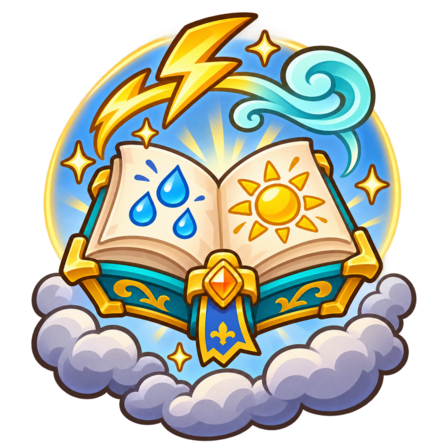
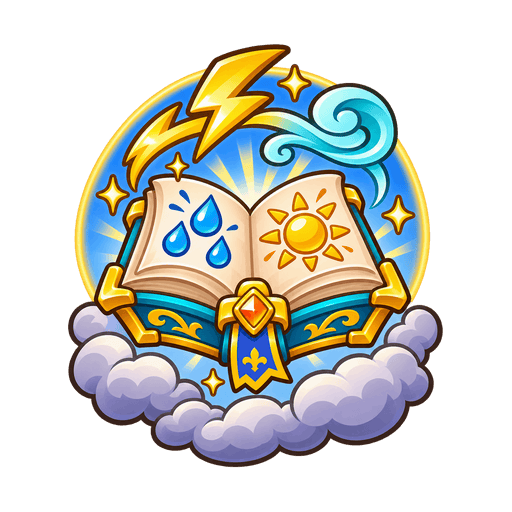
天候の呪文のカード絵を512pxで描き直す

diff --git a/js/ui/precache.js b/js/ui/precache.js
@@ -1,2 +1,2 @@
-self.CF_CACHE_VERSION="4c02900524c205b7";
+self.CF_CACHE_VERSION="64f714ec397dd5cb";
 self.CF_ASSETS=["index.html","manifest.webmanifest","css/accessibility.css","css/battle.css","css/beast.css","css/card-base.css","css/card-zoom.css","css/chat.css","css/components.css","css/deck.css","css/experience.css","css/finishing-art.css","css/fit.css","css/help-guide.css","css/hologram.css","css/kingdom.css","css/layout.css","css/mana-growth.css","css/materials.css","css/motion.css","css/mp.css","css/polish.css","css/rarity-assets.css","css/rarity-fx.css","css/settings.css","css/step5.css","css/style.css","css/text-fit.css","css/theme.css","css/tokens.css","css/tutorial.css","css/weather.css","js/game/Card.js","js/game/Castle.js","js/game/Game.js","js/game/Monster.js","js/game/Player.js","js/game/Road.js","js/game/Setup.js","js/game/Soldier.js","js/game/Weather.js","js/game/strategies.js","js/game/visibility.js","js/main.js","js/ui/Accessibility.js","js/ui/Animations.js","js/ui/BattleLayout.js","js/ui/CardGuide.js","js/ui/CardInfo.js","js/ui/CardRelief.js","js/ui/CardZoom.js","js/ui/ChatView.js","js/ui/DebugPanel.js","js/ui/DeckEditor.js","js/ui/DeckPreview.js","js/ui/DeckStore.js","js/ui/HandView.js","js/ui/HelpView.js","js/ui/Hologram.js","js/ui/LocalSetup.js","js/ui/MatchStats.js","js/ui/MaterialSkin.js","js/ui/Music.js","js/ui/OnlineClient.js","js/ui/ProgressPanel.js","js/ui/Renderer.js","js/ui/RoomView.js","js/ui/Session.js","js/ui/Settings.js","js/ui/Sound.js","js/ui/Targeting.js","js/ui/Tutorial.js","js/ui/UpgradePanel.js","js/ui/WeatherView.js","js/ui/art.js","js/ui/cardFrame.js","js/ui/cardView.js","js/ui/config.js","js/ui/handOrder.js","js/ui/look.js","js/ui/motion.js","js/ui/pills.js","js/ui/rarity.js","js/ui/stories.js","js/ui/syncCheck.js","js/ui/text.js","data/cards.json","data/castles.json","data/decks.json","data/monsters.json","data/rarities.json","data/rules.json","data/stamps.json","data/upgrades.json","data/weather.json","assets/asset-manifest.json","assets/bg/board-meadow-compact.png","assets/bg/board-meadow.png","assets/bg/board.png","assets/bg/kingdom-meadow.png","assets/bg/kingdom-valley.png","assets/bg/title-compact.png","assets/bg/title.png","assets/cards/card-absolute-zero.png","assets/cards/card-adapt.png","assets/cards/card-apocalypse.png","assets/cards/card-apprentice-archer.png","assets/cards/card-apprentice-mage.png","assets/cards/card-archer.png","assets/cards/card-archmage.png","assets/cards/card-barrier.png","assets/cards/card-beast-bat.png","assets/cards/card-beast-demon-king.png","assets/cards/card-beast-demon.png","assets/cards/card-beast-dragon.png","assets/cards/card-beast-ghost.png","assets/cards/card-beast-goblin.png","assets/cards/card-beast-golem.png","assets/cards/card-beast-mimic.png","assets/cards/card-beast-skeleton.png","assets/cards/card-beast-slime.png","assets/cards/card-beast-treant.png","assets/cards/card-beast-vampire.png","assets/cards/card-big-shield.png","assets/cards/card-big-thunder.png","assets/cards/card-blessing.png","assets/cards/card-bolt.png","assets/cards/card-cavalry.png","assets/cards/card-coin-pouch.png","assets/cards/card-death-mist.png","assets/cards/card-decoy.png","assets/cards/card-deep-freeze.png","assets/cards/card-dragon-knight.png","assets/cards/card-earth-hammer.png","assets/cards/card-earth-king.png","assets/cards/card-earth-spirit.png","assets/cards/card-fire-king.png","assets/cards/card-fire-spirit.png","assets/cards/card-fireball.png","assets/cards/card-flame-sword.png","assets/cards/card-frost-breath.png","assets/cards/card-frozen-world.png","assets/cards/card-gate.png","assets/cards/card-giant.png","assets/cards/card-glacier.png","assets/cards/card-god-shield.png","assets/cards/card-god-sword.png","assets/cards/card-goddess.png","assets/cards/card-gold-coin.png","assets/cards/card-gold-vein.png","assets/cards/card-great-earth-spirit.png","assets/cards/card-great-fire-spirit.png","assets/cards/card-great-heal.png","assets/cards/card-great-water-spirit.png","assets/cards/card-great-wind-spirit.png","assets/cards/card-heal.png","assets/cards/card-heavy.png","assets/cards/card-hero.png","assets/cards/card-holy-light.png","assets/cards/card-holy-shield.png","assets/cards/card-holy-sword.png","assets/cards/card-infantry.png","assets/cards/card-inferno.png","assets/cards/card-iron-sword.png","assets/cards/card-judgment.png","assets/cards/card-king-treasure.png","assets/cards/card-knight.png","assets/cards/card-longbowman.png","assets/cards/card-mage.png","assets/cards/card-magic-sword.png","assets/cards/card-mana-crystal.png","assets/cards/card-mana-drop.png","assets/cards/card-mana-shard.png","assets/cards/card-mana-spring.png","assets/cards/card-meteor.png","assets/cards/card-minor-heal.png","assets/cards/card-paladin.png","assets/cards/card-plague.png","assets/cards/card-poison-mist.png","assets/cards/card-prayer.png","assets/cards/card-raijin.png","assets/cards/card-reflect.png","assets/cards/card-sage.png","assets/cards/card-sandbag.png","assets/cards/card-scout.png","assets/cards/card-shield.png","assets/cards/card-sky-archer.png","assets/cards/card-sniper.png","assets/cards/card-sorcerer.png","assets/cards/card-spearman.png","assets/cards/card-starfall.png","assets/cards/card-steel-shield.png","assets/cards/card-stone-wall.png","assets/cards/card-thief.png","assets/cards/card-thunder.png","assets/cards/card-toxic-rain.png","assets/cards/card-treasure.png","assets/cards/card-venom.png","assets/cards/card-wall.png","assets/cards/card-water-king.png","assets/cards/card-water-spear.png","assets/cards/card-water-spirit.png","assets/cards/card-weather-call.png","assets/cards/card-wind-bow.png","assets/cards/card-wind-king.png","assets/cards/card-wind-spirit.png","assets/cards/card-world-tree-dew.png","assets/cards/frame-beast.png","assets/cards/frame-common.png","assets/cards/frame-defense.png","assets/cards/frame-epic.png","assets/cards/frame-legendary.png","assets/cards/frame-rare.png","assets/cards/frame-soldier.png","assets/cards/frame-special.png","assets/cards/frame-spell.png","assets/cards/frame-uncommon.png","assets/cards/frame-weapon.png","assets/cards/relief/frame-beast-raised.png","assets/cards/relief/frame-beast-relief.png","assets/cards/relief/frame-common-raised.png","assets/cards/relief/frame-common-relief.png","assets/cards/relief/frame-defense-raised.png","assets/cards/relief/frame-defense-relief.png","assets/cards/relief/frame-epic-raised.png","assets/cards/relief/frame-epic-relief.png","assets/cards/relief/frame-legendary-raised.png","assets/cards/relief/frame-legendary-relief.png","assets/cards/relief/frame-rare-raised.png","assets/cards/relief/frame-rare-relief.png","assets/cards/relief/frame-soldier-raised.png","assets/cards/relief/frame-soldier-relief.png","assets/cards/relief/frame-special-raised.png","assets/cards/relief/frame-special-relief.png","assets/cards/relief/frame-spell-raised.png","assets/cards/relief/frame-spell-relief.png","assets/cards/relief/frame-uncommon-raised.png","assets/cards/relief/frame-uncommon-relief.png","assets/cards/relief/frame-weapon-raised.png","assets/cards/relief/frame-weapon-relief.png","assets/castles/barracks-blue-damaged-1.png","assets/castles/barracks-blue-damaged-2.png","assets/castles/barracks-blue-damaged-3.png","assets/castles/barracks-blue.png","assets/castles/barracks-orange-damaged-1.png","assets/castles/barracks-orange-damaged-2.png","assets/castles/barracks-orange-damaged-3.png","assets/castles/barracks-orange.png","assets/castles/castle-blue-damaged-1.png","assets/castles/castle-blue-damaged-2.png","assets/castles/castle-blue-damaged-3.png","assets/castles/castle-blue-ruined.png","assets/castles/castle-blue.png","assets/castles/castle-orange-damaged-1.png","assets/castles/castle-orange-damaged-2.png","assets/castles/castle-orange-damaged-3.png","assets/castles/castle-orange-ruined.png","assets/castles/castle-orange.png","assets/castles/fortress-blue-damaged-1.png","assets/castles/fortress-blue-damaged-2.png","assets/castles/fortress-blue-damaged-3.png","assets/castles/fortress-blue.png","assets/castles/fortress-orange-damaged-1.png","assets/castles/fortress-orange-damaged-2.png","assets/castles/fortress-orange-damaged-3.png","assets/castles/fortress-orange.png","assets/castles/tower-blue-damaged-1.png","assets/castles/tower-blue-damaged-2.png","assets/castles/tower-blue-damaged-3.png","assets/castles/tower-blue.png","assets/castles/tower-orange-damaged-1.png","assets/castles/tower-orange-damaged-2.png","assets/castles/tower-orange-damaged-3.png","assets/castles/tower-orange.png","assets/fx/dust.png","assets/fx/evolve-1.png","assets/fx/evolve-2.png","assets/fx/evolve-3.png","assets/fx/explosion.png","assets/fx/fireball.png","assets/fx/fusion.png","assets/fx/heal.png","assets/fx/ice.png","assets/fx/lightning.png","assets/fx/lucky-reward.png","assets/fx/poison.png","assets/ui/app-icon-192.png","assets/ui/app-icon-512.png","assets/ui/app-icon-maskable-512.png","assets/ui/apple-touch-icon.png","assets/ui/banner-win.png","assets/ui/btn-blue.png","assets/ui/btn-cream.png","assets/ui/btn-green.png","assets/ui/btn-orange.png","assets/ui/btn-red.png","assets/ui/btn-round.png","assets/ui/button-end-turn.png","assets/ui/card-back.png","assets/ui/icon-coin.png","assets/ui/icon-earth.png","assets/ui/icon-fire.png","assets/ui/icon-heart.png","assets/ui/icon-help.png","assets/ui/icon-kind-defense.png","assets/ui/icon-kind-soldier.png","assets/ui/icon-kind-spell.png","assets/ui/icon-kind-weapon.png","assets/ui/icon-kind-wild.png","assets/ui/icon-luck.png","assets/ui/icon-mode-local.png","assets/ui/icon-mode-online.png","assets/ui/icon-mode-solo.png","assets/ui/icon-mp.png","assets/ui/icon-rarity-common.png","assets/ui/icon-rarity-epic.png","assets/ui/icon-rarity-legendary.png","assets/ui/icon-rarity-rare.png","assets/ui/icon-rarity-special.png","assets/ui/icon-rarity-uncommon.png","assets/ui/icon-water.png","assets/ui/icon-wind.png","assets/ui/kingdom-crest.png","assets/ui/kingdom-parchment.png","assets/ui/kingdom-platform.png","assets/ui/kingdom-primary.png","assets/ui/kingdom-secondary.png","assets/ui/kingdom-wood.png","assets/ui/logo.png","assets/ui/natural/danger-40-left.png","assets/ui/natural/danger-40-middle.png","assets/ui/natural/danger-40-right.png","assets/ui/natural/danger-44-left.png","assets/ui/natural/danger-44-middle.png","assets/ui/natural/danger-44-right.png","assets/ui/natural/danger-72-left.png","assets/ui/natural/danger-72-middle.png","assets/ui/natural/danger-72-right.png","assets/ui/natural/frame.png","assets/ui/natural/leather-tile.png","assets/ui/natural/neutral-40-left.png","assets/ui/natural/neutral-40-middle.png","assets/ui/natural/neutral-40-right.png","assets/ui/natural/neutral-44-left.png","assets/ui/natural/neutral-44-middle.png","assets/ui/natural/neutral-44-right.png","assets/ui/natural/neutral-72-left.png","assets/ui/natural/neutral-72-middle.png","assets/ui/natural/neutral-72-right.png","assets/ui/natural/neutral-wide-full.png","assets/ui/natural/oak-tile.png","assets/ui/natural/paper-tile.png","assets/ui/natural/primary-40-left.png","assets/ui/natural/primary-40-middle.png","assets/ui/natural/primary-40-right.png","assets/ui/natural/primary-44-left.png","assets/ui/natural/primary-44-middle.png","assets/ui/natural/primary-44-right.png","assets/ui/natural/primary-72-left.png","assets/ui/natural/primary-72-middle.png","assets/ui/natural/primary-72-right.png","assets/ui/natural/primary-wide-full.png","assets/ui/natural/round-neutral.png","assets/ui/natural/round-selected.png","assets/ui/natural/selected-40-left.png","assets/ui/natural/selected-40-middle.png","assets/ui/natural/selected-40-right.png","assets/ui/natural/selected-44-left.png","assets/ui/natural/selected-44-middle.png","assets/ui/natural/selected-44-right.png","assets/ui/natural/selected-72-left.png","assets/ui/natural/selected-72-middle.png","assets/ui/natural/selected-72-right.png","assets/ui/panel-parchment.png","assets/ui/result-defeat.png","assets/ui/result-victory.png","assets/ui/sign-hp.png","assets/ui/stamps/again.png","assets/ui/stamps/gg.png","assets/ui/stamps/go.png","assets/ui/stamps/hello.png","assets/ui/stamps/nice.png","assets/ui/stamps/ouch.png","assets/ui/stamps/scared.png","assets/ui/stamps/smug.png","assets/ui/stamps/sorry.png","assets/ui/stamps/thanks.png","assets/ui/stamps/think.png","assets/ui/stamps/yay.png","assets/ui/tap-plate.png","assets/ui/title-castle-blue.png","assets/ui/title-castle-orange.png","assets/ui/title-infantry-orange.png","assets/ui/title-knight-blue.png","assets/ui/weather-coin-rain.png","assets/ui/weather-fog.png","assets/ui/weather-heavy-rain.png","assets/ui/weather-rain.png","assets/ui/weather-sandstorm.png","assets/ui/weather-storm.png","assets/ui/weather-sunny.png","assets/units/apprentice-archer-blue.png","assets/units/apprentice-archer-orange.png","assets/units/apprentice-mage-blue.png","assets/units/apprentice-mage-orange.png","assets/units/archer-blue.png","assets/units/archer-orange.png","assets/units/archmage-blue.png","assets/units/archmage-orange.png","assets/units/cavalry-blue.png","assets/units/cavalry-orange.png","assets/units/dragon-knight-blue.png","assets/units/dragon-knight-orange.png","assets/units/earth-spirit.png","assets/units/fire-spirit.png","assets/units/giant-blue.png","assets/units/giant-orange.png","assets/units/great-earth-spirit.png","assets/units/great-fire-spirit.png","assets/units/great-water-spirit.png","assets/units/great-wind-spirit.png","assets/units/heavy-blue.png","assets/units/heavy-orange.png","assets/units/hero-blue.png","assets/units/hero-orange.png","assets/units/infantry-blue.png","assets/units/infantry-orange.png","assets/units/knight-blue.png","assets/units/knight-orange.png","assets/units/longbowman-blue.png","assets/units/longbowman-orange.png","assets/units/mage-blue.png","assets/units/mage-orange.png","assets/units/monster-bat.png","assets/units/monster-demon-king.png","assets/units/monster-demon.png","assets/units/monster-dragon.png","assets/units/monster-ghost.png","assets/units/monster-goblin.png","assets/units/monster-golem.png","assets/units/monster-mimic.png","assets/units/monster-skeleton.png","assets/units/monster-slime.png","assets/units/monster-treant.png","assets/units/monster-vampire.png","assets/units/paladin-blue.png","assets/units/paladin-orange.png","assets/units/sage-blue.png","assets/units/sage-orange.png","assets/units/scout-blue.png","assets/units/scout-orange.png","assets/units/sky-archer-blue.png","assets/units/sky-archer-orange.png","assets/units/sniper-blue.png","assets/units/sniper-orange.png","assets/units/sorcerer-blue.png","assets/units/sorcerer-orange.png","assets/units/spearman-blue.png","assets/units/spearman-orange.png","assets/units/water-spirit.png","assets/units/wind-spirit.png"];
